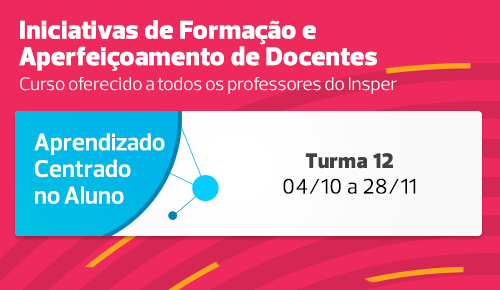
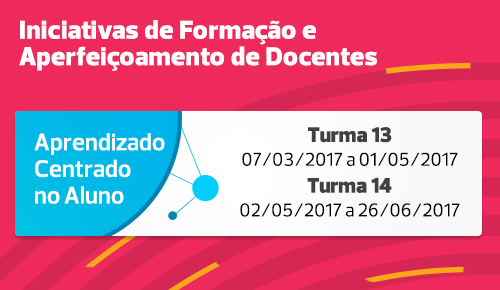
aca 14

Changed region(s): [[0.48, 0.5276, 0.93, 0.7448], [0.03, 0.2483, 0.81, 0.3103], [0.6, 0.4345, 0.78, 0.4966]]

diff --git a/calendario-formacao-docentes/html/index.html b/calendario-formacao-docentes/html/index.html
@@ -24,7 +24,6 @@
 </head>
 <body>
     <div class="wrapper">
-        <!-- top -->
         <header id="top" role="banner" class="containerHeader fix">
             <div class="row">
             	<div class="c9">
@@ -35,7 +34,6 @@
             	</div>
             </div>
         </header>
-        
         <div id="main" role="main" class="wfull fix">
             <div class="row introd fix">
             	<div class="c8">
@@ -75,8 +73,20 @@
                         <p class="titleDate">confirmados</p>
                         <ul> <!-- lista mês -->
                             <li>
-                                <h5>Março</h5>
+                                <h5>Maio</h5>
                                 <ul> <!-- lista eventos deste mês -->
+                                    <li class="fix">
+                                        <div class="dias"><span>2/05 (ter) - 26/06 (seg)</span></div>
+                                        <div class="descricaoEvento">
+                                            <p><a href="geral/aprendizado-centrado-aluno-turma14.html" title="Aprendizado Centrado no Aluno – Turma 14">Módulo Aprendizado Centrado no Aluno – Turma 14</a></p>
+                                            <p class="localSala">Insper</p>
+                                        </div>
+                                    </li>
+                                </ul>
+                            </li>
+                            <li>
+                                <h5>Março</h5>
+                                <ul>
                                     <li class="fix">
                                         <div class="dias"><span>7/03 (ter) - 1/05 (seg)</span></div>
                                         <div class="descricaoEvento">

diff --git a/calendario-formacao-docentes/slider-calendario/modulo-blackboard.html b/calendario-formacao-docentes/slider-calendario/modulo-blackboard.html
@@ -14,7 +14,7 @@
 </head>
 <body>
 	<div class="containerModulo">
-		<a href="https://insper.blackboard.com/bbcswebdav/institution/DEA/calendario-formacao-docentes/geral/aprendizado-centrado-aluno-turma13.html" target="_blank"><img src="https://insper.blackboard.com/bbcswebdav/institution/DEA/calendario-formacao-docentes/banner-rotativo/1-geral-2017.png" alt="Aprendizado Centrado no Aluno - Turma 13"></a>
+		<a href="https://insper.blackboard.com/bbcswebdav/institution/DEA/calendario-formacao-docentes/geral/aprendizado-centrado-aluno-turma13.html" target="_blank"><img src="https://insper.blackboard.com/bbcswebdav/institution/DEA/calendario-formacao-docentes/banner-rotativo/1-geral.png" alt="Aprendizado Centrado no Aluno - Turma 13"></a>
 	</div>
 	<!-- BEGIN: conteudo para banner rotativo 
 	<div class="containerModulo">

diff --git a/calendario-formacao-docentes/html/assets/js/eventsCalendar.js b/calendario-formacao-docentes/html/assets/js/eventsCalendar.js
@@ -131,6 +131,13 @@ $(document).ready(function() {
                 backgroundColor: magenta,
                 url:    'geral/aprendizado-centrado-aluno-turma13.html'
             },
+            {
+                title:  'Módulo Aprendizado Centrado no Aluno – Turma 14 (Geral)',
+                start:  '2017-05-02',
+                end:    '2017-05-02',   
+                backgroundColor: magenta,
+                url:    'geral/aprendizado-centrado-aluno-turma14.html'
+            },
             { //////////////////// GRADUAÇÃO //////////////////////
 
                 title:  'Elaboração de questões de múltipla escolha e sua contribuição para a gestão do aprendizado (Graduação)',
